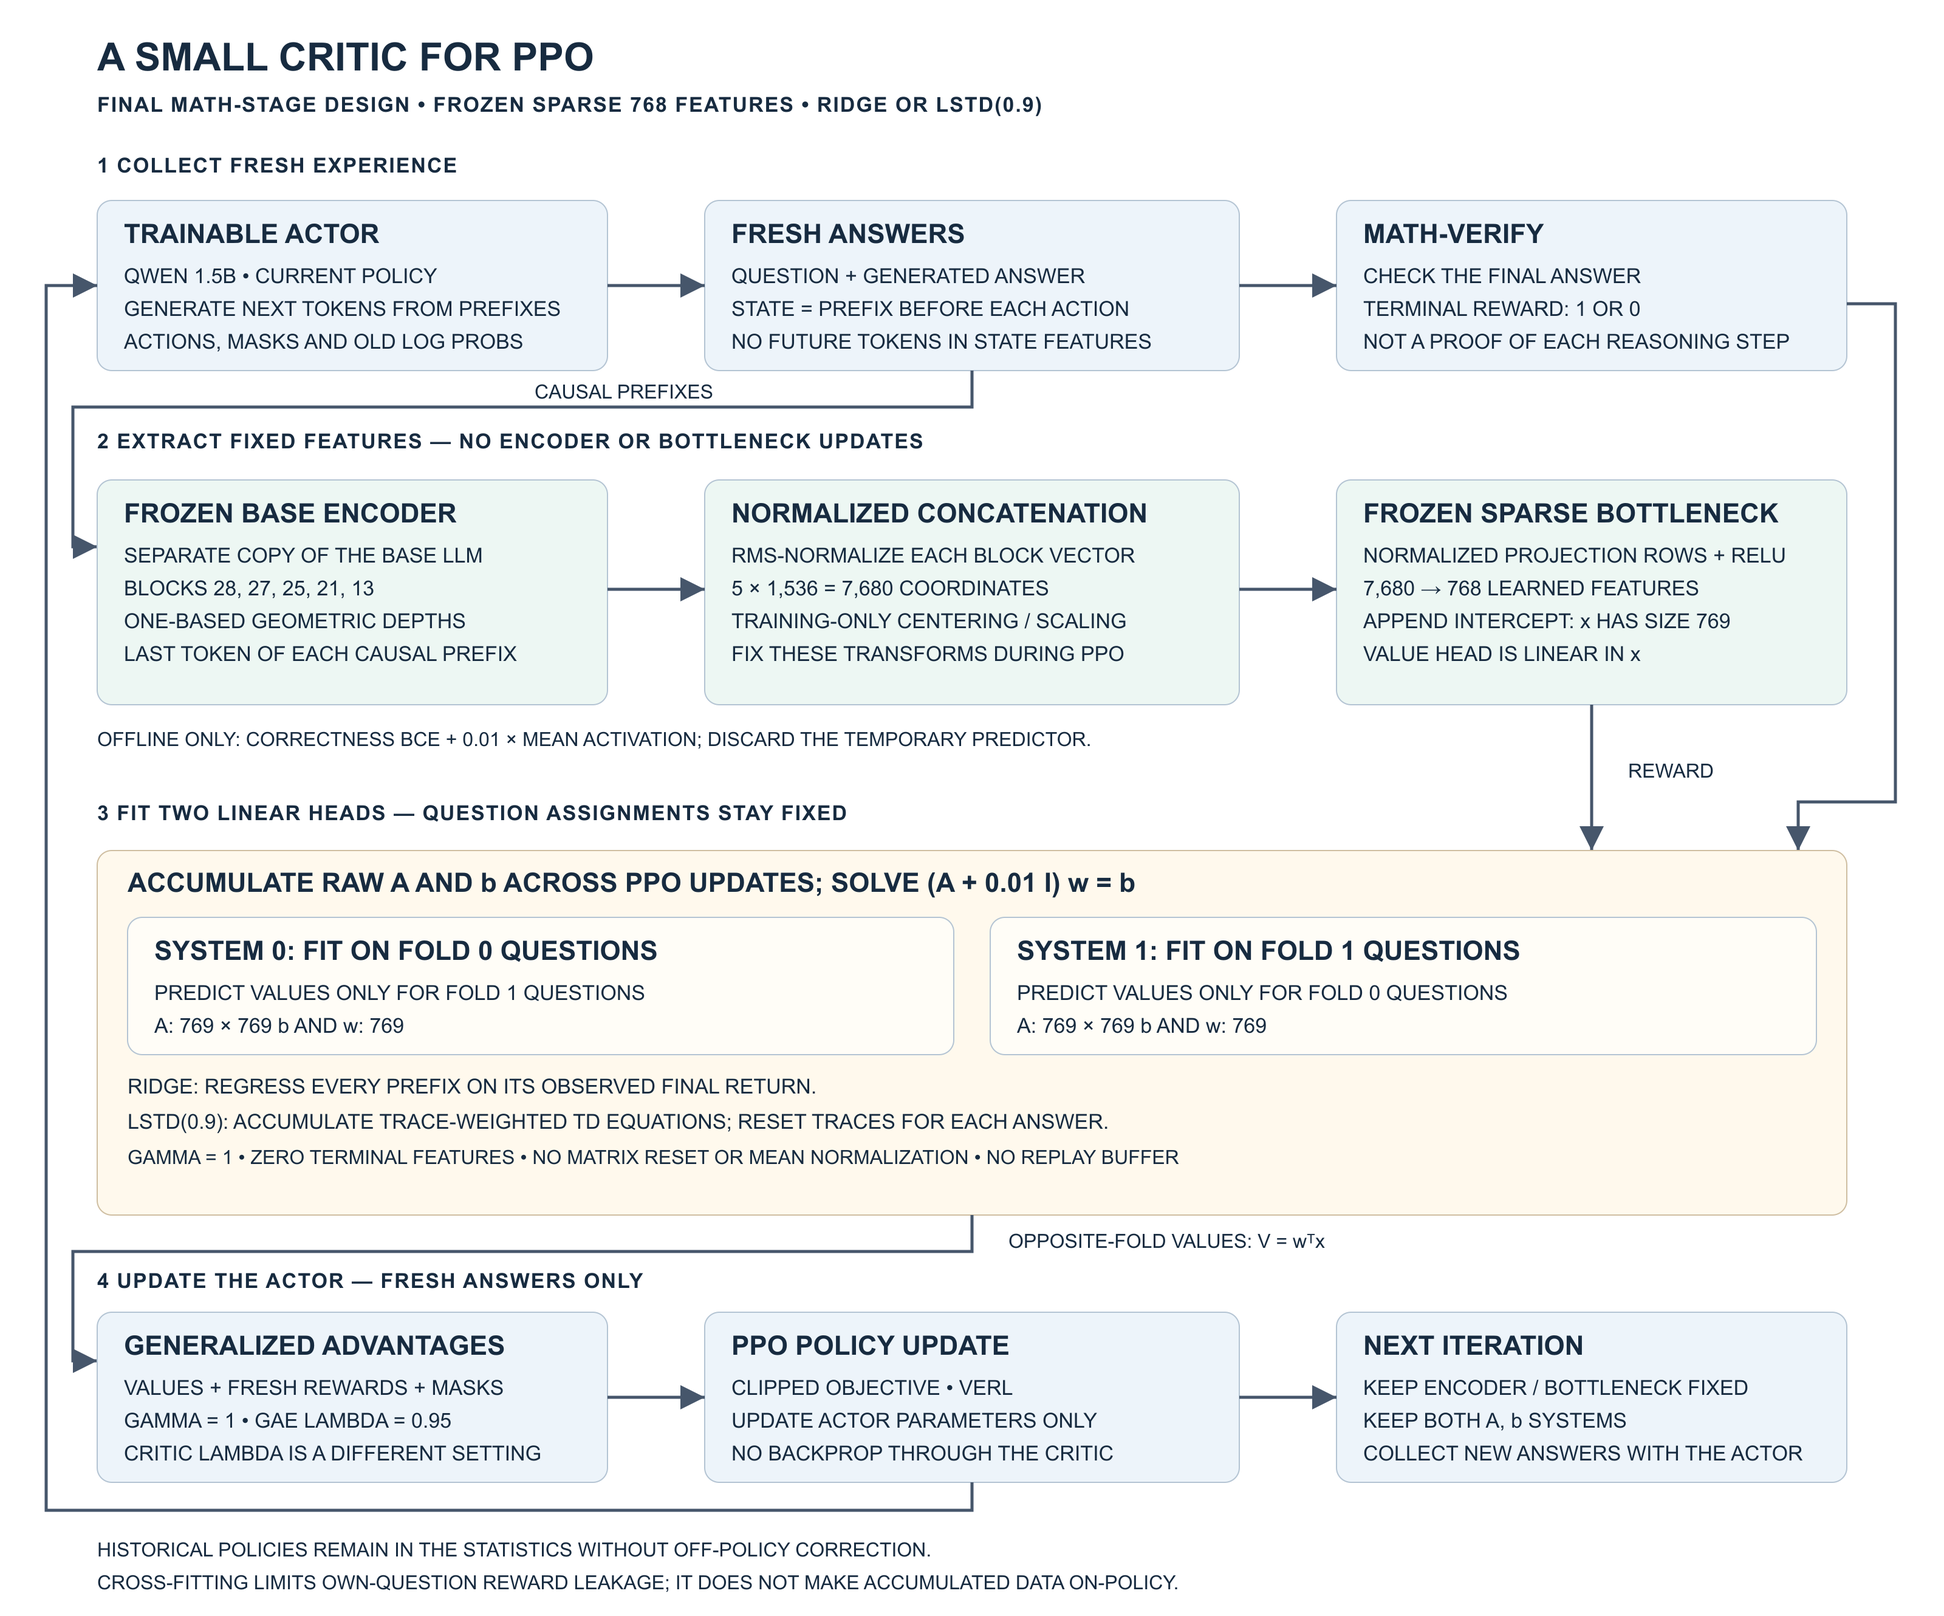
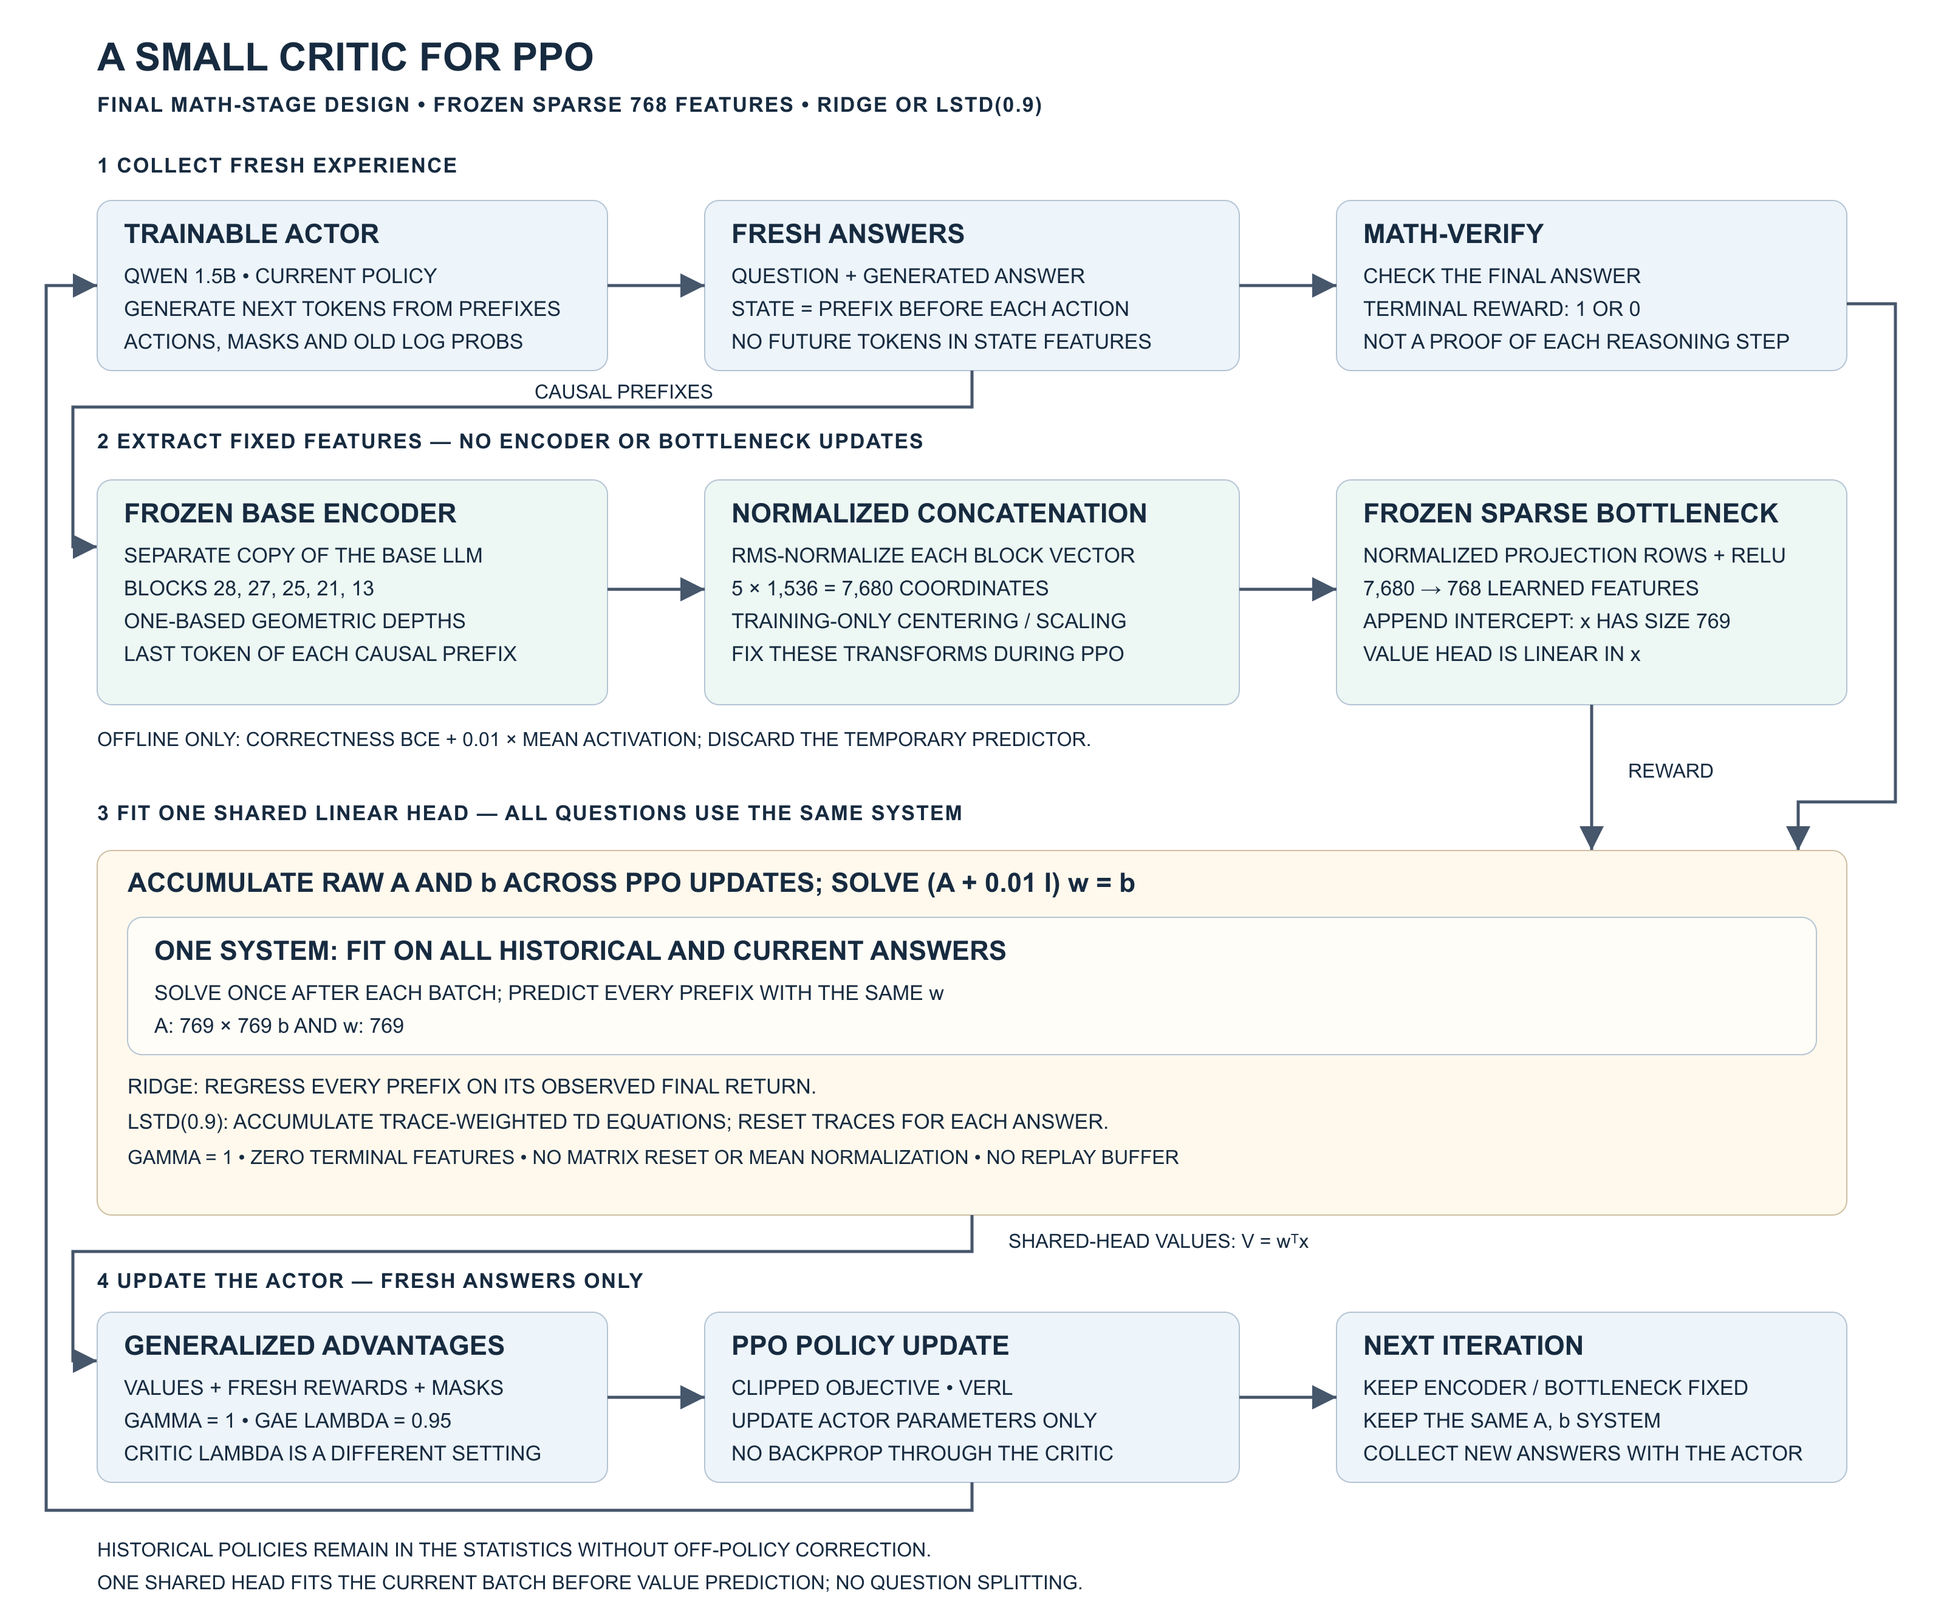
typos corrected

diff --git a/tests/test_cumulative_lstd.py b/tests/test_cumulative_lstd.py
@@ -28,7 +28,7 @@ def test_statistics_match_explicit_transition_loop(lam):
 
 
 def test_raw_cumulative_solve_and_no_repeated_regularization():
-    f,r,m,q=batch();c=CumulativeCritic(q,epsilon=.001,trace_lambda=.99)
+    f,r,m,q=batch();c=CumulativeCritic(q,epsilon=.001,trace_lambda=.99,folds=2)
     _,_,first=c.update(f,r,m,q,1)
     _,heads,last=c.update(f,r,m,q,2)
     for fold in range(2):
@@ -42,7 +42,7 @@ def test_raw_cumulative_solve_and_no_repeated_regularization():
 
 
 def test_historical_question_labels_never_leak():
-    f,r,m,q=batch();a=CumulativeCritic(q,trace_lambda=.99);b=CumulativeCritic(q,trace_lambda=.99)
+    f,r,m,q=batch();a=CumulativeCritic(q,trace_lambda=.99,folds=2);b=CumulativeCritic(q,trace_lambda=.99,folds=2)
     changed=r.clone();held=[i for i,x in enumerate(q) if a.assignment[x]==0]
     changed[held,-1]=1-changed[held,-1]
     for step in (1,2):
@@ -51,26 +51,26 @@ def test_historical_question_labels_never_leak():
 
 
 def test_refresh_resets_statistics_and_rejects_duplicate_steps():
-    f,r,m,q=batch();c=CumulativeCritic(q,reset_interval=2)
+    f,r,m,q=batch();c=CumulativeCritic(q,reset_interval=2,folds=2)
     c.update(f,r,m,q,1);c.update(f,r,m,q,2)
     with pytest.raises(ValueError,match='consecutive'):c.update(f,r,m,q,2)
     v,_,metric=c.update(f,r,m,q,3,feature_epoch=1)
-    reference=CumulativeCritic(q);expected,_,_=reference.update(f,r,m,q,1)
+    reference=CumulativeCritic(q,folds=2);expected,_,_=reference.update(f,r,m,q,1)
     torch.testing.assert_close(v,expected)
     assert metric['reset'] and sum(x['transitions'] for x in metric['folds'])==24
     assert [encoder_epoch(i,2) for i in range(1,6)]==[0,0,1,1,2]
 
 
 def test_reward_shape_and_terminal_checks():
-    f,r,m,q=batch();c=CumulativeCritic(q)
+    f,r,m,q=batch();c=CumulativeCritic(q,folds=2)
     r[0,0]=1
     with pytest.raises(ValueError,match='terminal'):c.update(f,r,m,q,1)
 
 
 def test_accumulated_ridge_matches_direct_returns_and_lstd_one():
     f,r,m,q=batch()
-    ridge=CumulativeCritic(q,method='ridge')
-    lstd=CumulativeCritic(q,trace_lambda=1.)
+    ridge=CumulativeCritic(q,method='ridge',folds=2)
+    lstd=CumulativeCritic(q,trace_lambda=1.,folds=2)
     for step in (1,2):
         vr,hr,_=ridge.update(f,r,m,q,step)
         vl,_,_=lstd.update(f,r,m,q,step)

diff --git a/packages/slice-critic/tests/test_contract.py b/packages/slice-critic/tests/test_contract.py
@@ -27,7 +27,7 @@ def payload():
 @pytest.mark.parametrize('method',['ridge','lstd'])
 def test_public_one_head_fits_all_answers_before_prediction(method):
     from slice_critic.cumulative import raw_design, trajectory_statistics
-    critic=CumulativeCritic(['one question'],method=method,trace_lambda=.9,folds=1)
+    critic=CumulativeCritic(['one question'],method=method,trace_lambda=.9)
     features=[torch.tensor([[.1],[.7]]),torch.tensor([[.3],[.9]])]
     rewards=torch.tensor([[0.,1.],[0.,0.]])
     a=torch.zeros(2,2,dtype=torch.float64);b=torch.zeros(2,dtype=torch.float64)
@@ -83,7 +83,7 @@ def test_public_ppo_exports_are_existing_implementations():
 @pytest.mark.parametrize('method', ['ridge', 'lstd'])
 def test_cumulative_public_api_matches_explicit_raw_sums_and_cross_fitting(method):
     from slice_critic.cumulative import trajectory_statistics, raw_design
-    critic = CumulativeCritic(['a', 'b', 'c', 'd'], seed=42, epsilon=.01, trace_lambda=.99, method=method)
+    critic = CumulativeCritic(['a', 'b', 'c', 'd'], seed=42, epsilon=.01, trace_lambda=.99, method=method, folds=2)
     ids = [next(q for q, fold in critic.assignment.items() if fold == f) for f in (0, 1)]
     features = [torch.tensor([[.1, .2], [.3, .4]]), torch.tensor([[.2, .7], [.5, .8]])]
     rewards = torch.tensor([[0., 1.], [0., 0.]])

diff --git a/packages/slice-critic/src/slice_critic/cumulative.py b/packages/slice-critic/src/slice_critic/cumulative.py
@@ -34,7 +34,7 @@ def trajectory_statistics(states, outcome, trace_lambda=0.):
 
 
 class CumulativeCritic:
-    def __init__(self, question_ids, seed=42, epsilon=.01, trace_lambda=0., reset_interval=0, method="lstd", *, folds=2):
+    def __init__(self, question_ids, seed=42, epsilon=.01, trace_lambda=0., reset_interval=0, method="lstd", *, folds=1):
         if not np.isfinite(epsilon) or epsilon <= 0 or not 0 <= trace_lambda <= 1 or reset_interval < 0:
             raise ValueError('Invalid cumulative LSTD settings')
         if method not in ('lstd', 'ridge'):

diff --git a/README.md b/README.md
@@ -43,39 +43,36 @@ The diagram's correctness score is an outcome estimate, not a proof of the
 reasoning. Online Ridge/LSTD values are unbounded linear predictions; standalone
 package scoring also provides a separately calibrated probability.
 
-## The learning algorithm used in the completed studies
+## Current v2 algorithm: one shared critic
 
 During PPO, **only the actor is updated by gradients** in the SLICE arms. Its
 critic uses the frozen base encoder and frozen compressor, with fresh linear
 weights fitted from accumulated statistics. Ridge fits each prefix to its
 observed final reward. LSTD fits trace-weighted temporal-difference equations.
 
-Every training question belongs permanently to one of two groups, or *folds*.
-Each fold's rewards fit one head, which predicts values for the opposite fold.
-This keeps a question's own current and historical rewards out of the head used
-to calculate its advantages.
+Every training question uses the **same** matrix system and value head.
+There is no question assignment or opposite-head prediction. After each batch,
+we add all answers to the accumulated statistics, solve once, and predict that
+batch's token values with the resulting weights.
 
-Here, `x = [768 compressed features; 1]` includes an intercept, so each `A` is
-**769 × 769** and each `b` and `w` has 769 entries. The final Numina settings are
+Here, `x = [768 compressed features; 1]` includes an intercept, so `A` is
+**769 × 769** and `b` and `w` each have 769 entries. The final Numina settings are
 `gamma = 1`, `critic_lambda = 0.9`, `GAE_lambda = 0.95` and `epsilon = 0.01`.
 Critic lambda and GAE lambda control different calculations.
 
 ```text
 Freeze the base encoder, learned bottleneck and feature normalization.
-Assign each training question to a fixed fold: 0 or 1.
-Initialize A[fold] = 0 and b[fold] = 0 for both folds.
+Initialize one A = 0 and one b = 0 for all questions.
 
 For each PPO update:
     Generate fresh answers with the current actor; score their final outcomes.
     Extract frozen features for every pre-action prefix; append intercept 1.
 
     For each answer:
-        f = its question's fixed fold
-
         If using Ridge:
             For each prefix x:
-                A[f] += outer(x, x)
-                b[f] += x * final_reward
+                A += outer(x, x)
+                b += x * final_reward
 
         If using LSTD:
             Reset eligibility trace z = 0 at the start of this answer.
@@ -83,14 +80,11 @@ For each PPO update:
                 # reward is zero except at the last action.
                 # At termination, x_next is all zero, including its intercept.
                 z = gamma * critic_lambda * z + x
-                A[f] += outer(z, x - gamma * x_next)
-                b[f] += z * reward
+                A += outer(z, x - gamma * x_next)
+                b += z * reward
 
-    For each fold f:
-        w[f] = solve(A[f] + epsilon * I, b[f])
-
-    Predict each question's token values with the opposite fold's weights:
-        value(x) = dot(w[1 - f], x)
+    w = solve(A + epsilon * I, b)
+    Predict every current prefix's value: value(x) = dot(w, x)
     Compute GAE using these values, fresh rewards and terminal value zero.
     Update the actor with PPO on fresh answers only.
 
@@ -100,16 +94,17 @@ For each PPO update:
 
 The small matrix statistics persist; generated answers are not kept in a buffer.
 Regularization is added when solving, including on the intercept. Past policies
-remain represented in `A` and `b` without off-policy correction: question
-cross-fitting limits reward leakage, but does not make old experience on-policy.
+remain represented in `A` and `b` without off-policy correction. Values are
+fitted on current as well as historical answers; their fitting error is not a
+held-out value-quality measurement.
 
-![PPO system architecture: fresh answers, frozen SLICE features, cumulative opposite-fold linear critics, GAE and actor updates.](docs/figures/final-architecture.png)
+![PPO system architecture: fresh answers, frozen SLICE features, one cumulative linear critic, GAE and actor updates.](docs/figures/final-architecture.png)
 
 [Open the scalable architecture diagram](docs/figures/final-architecture.svg).
 
 ## v2 experiment: one cumulative head, without folds
 
-The package now also supports `CumulativeCritic(..., folds=1)`. All questions
+The default package mode is now `CumulativeCritic(..., folds=1)`. All questions
 update one persistent `A,b`; after adding each fresh batch, we solve once and use
 that head for every prefix's value. Frozen features, raw accumulation, terminal
 rewards, epsilon, GAE and PPO are unchanged. This is fit-then-predict on the same
@@ -123,7 +118,8 @@ unchanged. All actors start fresh; old results remain untouched.
 
 ## Recorded Numina results
 
-The original comparison and the completed production replay each used five actor seeds, six methods,
+These completed studies used the previous two-fold critic. They are historical
+results, not measurements of the new one-head version. Each used five actor seeds, six methods,
 **120 updates × 64 answers per run**, 2,000 test questions,
 fixed greedy evaluation and a 2,048-token response cap. Gamma is 1; GAE lambda is
 0.95; online LSTD lambda is 0.9; cumulative regularization is 0.01. Each run uses

diff --git a/packages/slice-critic/API.md b/packages/slice-critic/API.md
@@ -17,7 +17,7 @@ Qwen2.5-Math-1.5B and numeric final-answer tasks, not arbitrary architectures.
 | `load_ppo_features(path, checksum, layers=..., eps=..., model_path=...)` | Checks checkpoint and supplied identities; returns frozen compressor, CPU mean and scale. Pass all compatibility arguments. |
 | `encode_hidden_rollout_features(encoder, ids, masks, response_width, layer)` | Frozen raw-layer control readout; same causal alignment, no compressor. |
 | `encode_rollout_features(encoder, ids, masks, response_width, fitted, layers, eps)` | Per-answer detached arrays for every pre-action response state. Consumer supplies the matching encoder, tokenizer and completion prompt. |
-| `CumulativeCritic(question_ids, seed=..., epsilon=.01, trace_lambda=.9, method=..., folds=2)` | Persistent matrix fitting: `folds=2` uses opposite-question heads; `folds=1` uses one shared head fitted before current-batch predictions. Explicitly specify `method` and `trace_lambda`; the constructor's trace default is zero. |
+| `CumulativeCritic(question_ids, seed=..., epsilon=.01, trace_lambda=.9, method=..., folds=1)` | Persistent matrix fitting: `folds=2` uses opposite-question heads; `folds=1` uses one shared head fitted before current-batch predictions. Explicitly specify `method` and `trace_lambda`; the constructor's trace default is zero. |
 
 ## Online fitting is separate from offline prediction
 
@@ -25,7 +25,7 @@ Qwen2.5-Math-1.5B and numeric final-answer tasks, not arbitrary architectures.
 from slice_critic import CumulativeCritic
 
 critic = CumulativeCritic(all_training_question_ids, seed=42,
-                         method="lstd", trace_lambda=.99, epsilon=.01)
+                         method="lstd", trace_lambda=.9, epsilon=.01)
 for step, batch in enumerate(fresh_rollouts, start=1):
     values, heads, diagnostics = critic.update(
         batch.features, batch.terminal_rewards, batch.response_mask,
@@ -40,7 +40,8 @@ fixed to 1; only binary rewards at the final response token are supported.
 Termination uses a zero successor, including its intercept. Consumers must define
 truncation semantics for other tasks; our math project defines a capped task.
 
-By default, two question folds persist: values for one fold use the other fold's matrices.
+By default, all questions share one matrix system and one prediction head.
+Explicit `folds=2` is retained only to reproduce historical cross-fitted studies.
 Pass `folds=1` for the no-fold experiment: every question contributes to the same
 system, which is solved after adding the current batch and then predicts that
 batch. There is one head and one solve per update; no cross-fitting or delayed

diff --git a/docs/ARCHITECTURE.md b/docs/ARCHITECTURE.md
@@ -28,9 +28,9 @@ zero, including its intercept. Gamma is 1; traces reset between answers. Matrix
 sums persist without per-update normalization. The encoder/compressor must not
 change while those sums are retained.
 
-In the original/default two-fold mode, question folds remain fixed across all
+In the historical two-fold mode, question folds remain fixed across all
 historical and current answers; values use the opposite fold's matrices.
-The v2 experiment also supports `critic_folds=1`: one system fits all historical
+The current/default v2 protocol uses `critic_folds=1`: one system fits all historical
 and current answers before predicting the current batch, without cross-fitting.
 Both modes keep the feature basis fixed and accumulate raw sums.
 Supervised representation-fitting

diff --git a/packages/slice-critic/README.md b/packages/slice-critic/README.md
@@ -68,8 +68,8 @@ values, weights, diagnostics = head.update(
 ```
 
 For LSTD, specify `method="lstd", trace_lambda=.9` (or the desired tested trace).
-Gamma is 1. By default, statistics accumulate in two persistent question folds; no head fits
-its predicted question's rewards. Features stay frozen. Historical-policy data
+Gamma is 1. By default, all questions accumulate into one shared matrix system,
+which fits and predicts the current batch. Features stay frozen. Historical-policy data
 are uncorrected. LSTD requires consecutive states, not isolated random prefixes.
 
 Set `folds=1` in `CumulativeCritic` to fit one shared system on all accumulated

diff --git a/packages/slice-critic/CHANGELOG.md b/packages/slice-critic/CHANGELOG.md
@@ -2,8 +2,8 @@
 
 ## 0.3.0 - one-head cumulative critic experiment
 
-- Optional `folds=1` shared-head Ridge/LSTD: accumulate all answers, solve once,
-  then predict the current batch. Existing `folds=2` remains the default.
+- Default `folds=1` shared-head Ridge/LSTD: accumulate all answers, solve once,
+  then predict the current batch. Explicit `folds=2` remains available for historical reproduction.
 - Explicit system routing, fold counts and in-sample versus out-of-fold metrics
   in checkpoints/diagnostics. Offline artifact schema and equations unchanged.
 - New no-fold six-method protocol: one head in every linear arm, original

diff --git a/SETUP.MD b/SETUP.MD
@@ -77,7 +77,8 @@ cat outputs/slice-prod-smoke-v1/verification.json
 ```
 
 This runs two actor updates each for Ridge and LSTD(0.9), checking frozen features,
-finite 769-dimensional heads, two question folds and accumulated statistics.
+one finite 769-dimensional head per method and accumulated statistics.
+The smoke defaults to the current one-head mode.
 It is not an accuracy benchmark. The full six-method study has a separate smoke
 gate before its array of actor runs.
 
